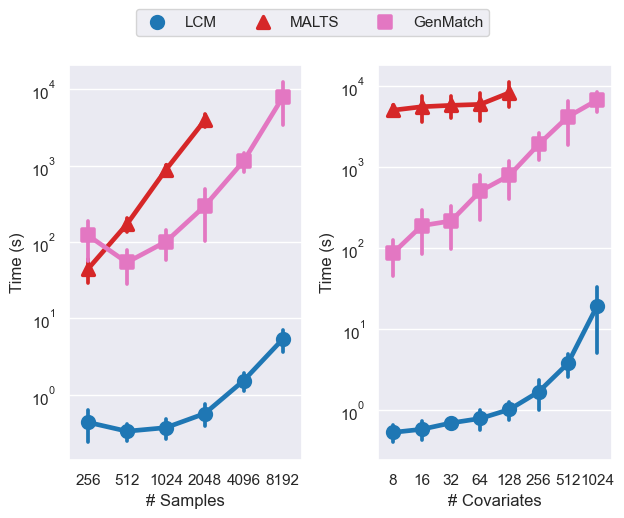
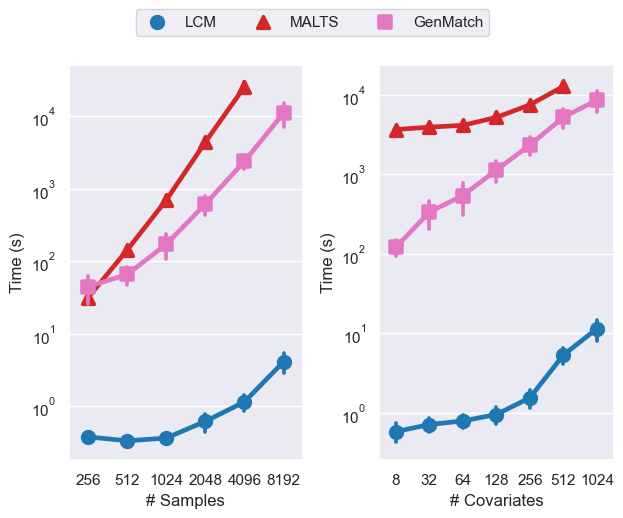
edited plots and changing covariates to look at for schools

diff --git a/Experiments/schools/run.py b/Experiments/schools/run.py
@@ -2,7 +2,6 @@ import pandas as pd
 import seaborn as sns
 import matplotlib.pyplot as plt
 import matplotlib.ticker as ticker
-import matplotlib
 import numpy as np
 import os
 from collections import Counter
@@ -79,11 +78,19 @@ with open(f'{save_folder}/ensemble_prog_ate.txt', 'w') as f:
 df_orig = pd.read_csv(f'{os.getenv("SCHOOLS_FOLDER")}/df.csv')
 lcm_cates = lcm.cate_df.join(df_orig.drop(columns=['Z', 'Y']))
 
-lcm_top_10 = pd.DataFrame(lcm.M_list, columns=lcm.covariates).mean().sort_values(ascending=False).iloc[:10].index
-linear_prog_top_10 = pd.DataFrame(linear_prog_fi, columns=lcm.covariates).mean().sort_values().sort_values(ascending=False).iloc[:10].index
-ensemble_prog_top_10 = pd.DataFrame(ensemble_prog_fi, columns=lcm.covariates).mean().sort_values().sort_values(ascending=False).iloc[:10].index
+lcm_fi_df = pd.DataFrame(lcm.M_list, columns=lcm.covariates)
+lcm_fi_df.to_csv(f'{save_folder}/lcm_fi_df.csv')
+lcm_top_10 = lcm_fi_df.mean().sort_values(ascending=False).iloc[:10].index
+linear_prog_fi_df = pd.DataFrame(linear_prog_fi, columns=lcm.covariates)
+linear_prog_fi_df.to_csv(f'{save_folder}/linear_prog_fi_df.csv')
+linear_prog_top_10 = linear_prog_fi_df.mean().sort_values(ascending=False).iloc[:10].index
+ensemble_prog_fi_df = pd.DataFrame(ensemble_prog_fi, columns=lcm.covariates)
+ensemble_prog_fi_df.to_csv(f'{save_folder}/ensemble_prog_fi_df.csv')
+ensemble_prog_top_10 = ensemble_prog_fi_df.mean().sort_values(ascending=False).iloc[:10].index
 imp_covs = [c for c in lcm_top_10 if c in linear_prog_top_10]
 imp_covs = [c for c in imp_covs if c in ensemble_prog_top_10]
+
+imp_covs = ['S3', 'C1_4', 'C2', 'X1']
 
 categorical = [c for c in imp_covs if '_' in c]
 continuous = [c for c in imp_covs if '_' not in c]
@@ -112,14 +119,14 @@ for cov in imp_covs:
     if cov in continuous:
         lcm_diffs[cov] = copy.copy(np.mean(np.abs(mg_values - values), axis=1))
     else:
-        lcm_diffs[cov] = copy.copy((np.sum((mg_values == values).astype(int), axis=1) / (k_est*2)))
+        lcm_diffs[cov] = copy.copy((np.sum((mg_values != values).astype(int), axis=1) / (k_est*2)))
     mg_values = df_orig[c].to_numpy()[pd.concat(
         [pd.concat([linear_prog_c_mg[i] for i in range(n_splits * n_repeats)]),
          pd.concat([linear_prog_t_mg[i] for i in range(n_splits * n_repeats)])], axis=1).to_numpy()[good_idxs_i]]
     if cov in continuous:
         linear_prog_diffs[cov] = copy.copy(np.mean(np.abs(mg_values - values), axis=1))
     else:
-        linear_prog_diffs[cov] = copy.copy((np.sum((mg_values == values).astype(int), axis=1) / (k_est*2)))
+        linear_prog_diffs[cov] = copy.copy((np.sum((mg_values != values).astype(int), axis=1) / (k_est*2)))
     mg_values = df_orig[c].to_numpy()[pd.concat(
         [pd.concat([ensemble_prog_c_mg[i] for i in range(n_splits * n_repeats)]),
          pd.concat(
@@ -128,10 +135,10 @@ for cov in imp_covs:
     if cov in continuous:
         ensemble_prog_diffs[cov] = copy.copy(np.mean(np.abs(mg_values - values), axis=1))
     else:
-        ensemble_prog_diffs[cov] = copy.copy((np.sum((mg_values == values).astype(int), axis=1) / (k_est*2)))
+        ensemble_prog_diffs[cov] = copy.copy((np.sum((mg_values != values).astype(int), axis=1) / (k_est*2)))
 
 
-method_order = ['LCM', 'Linear\nPrognostic Score', 'Ensemble\nPrognostic Score']
+method_order = ['LCM', 'Linear\nPGM', 'Nonparametric\nPGM']
 palette = {method_order[i]: sns.color_palette()[i] for i in range(len(method_order))}
 
 
@@ -143,7 +150,7 @@ for c in categorical:
                                     ensemble_prog_diffs[c]],
                                    index=method_order).T,
                       var_name='Method',
-                      value_name='% Match')
+                      value_name='% Mismatch')
     this_df['Covariate'] = c.replace('_', '=')
     cat_diff_df.append(this_df.copy())
 for c in continuous:
@@ -161,28 +168,27 @@ cont_diff_df = pd.concat(cont_diff_df)
 cat_diff_df.to_csv(f'{save_folder}/categorical_diff.csv')
 cont_diff_df.to_csv(f'{save_folder}/continuous_diff.csv')
 
-matplotlib.rcParams.update({'font.size': 40})
+cat_diff_df['% Mismatch'] *= 100
+
 sns.set_context("paper")
 sns.set_style("darkgrid")
-sns.set(font_scale=4)
-fig, axes = plt.subplots(1, 2, figsize=(26, 14))
+sns.set(font_scale=3.3)
+fig, axes = plt.subplots(1, 2, figsize=(18, 9))
 sns.barplot(ax=axes[0], data=cat_diff_df, x='Covariate',
-            y='% Match', hue='Method', errorbar=None,
+            y='% Mismatch', hue='Method', errorbar=None,
             hue_order=[c.replace('_', '=') for c in categorical].sort())
 sns.boxplot(ax=axes[1], data=cont_diff_df, x='Covariate',
             y='Mean Absolute Difference', hue='Method', showfliers=False)
 handles, labels = axes[0].get_legend_handles_labels()
-fig.legend(handles, labels, loc='upper center', bbox_to_anchor=(0.5, 1.1),
-           ncol=3, fontsize=40,
+fig.legend(handles, labels, loc="lower center", bbox_to_anchor=(.55, 0.93),
+           ncol=3, fontsize=40, handletextpad=0.4,
            columnspacing=0.5)
 for ax in axes:
     ax.set(xlabel=None)
     ax.get_legend().remove()
 axes[0].yaxis.set_major_formatter(ticker.PercentFormatter())
-# axes[1].set_ylim([0, 40])
 fig.tight_layout()
 fig.savefig(f'{save_folder}/all_mg.png', bbox_inches='tight')
-
 
 imp_covs2 = [c.split('_')[0] for c in imp_covs]
 for cov, v in Counter(imp_covs2).items():
@@ -195,7 +201,6 @@ print(imp_covs)
 
 np.random.seed(0)
 sample = df_orig.copy(deep=True)
-sample = sample[sample['S3'] == 5]
 for c in imp_covs:
     if '_' in c:
         cov, val = c.split('_')
@@ -266,25 +271,20 @@ cate_df = cate_df.rename(columns={'avg.CATE_mean': 'LCM',
                                   'XC': 'Urbanicity (XC)',
                                   'S3': 'Exp Success (S3)'})
 cate_df = cate_df.join(linear_prog_cates_full['avg.CATE'])
-cate_df = cate_df.rename(columns={'avg.CATE': 'Linear\nPrognostic Score'})
+cate_df = cate_df.rename(columns={'avg.CATE': 'Linear\nPGM'})
 cate_df = cate_df.join(ensemble_prog_cates_full['avg.CATE'])
-cate_df = cate_df.rename(columns={'avg.CATE': 'Ensemble\nPrognostic Score'})
+cate_df = cate_df.rename(columns={'avg.CATE': 'Nonparametric\nPGM'})
 
 cate_df = pd.melt(cate_df, id_vars=['Urbanicity (XC)', 'Exp Success (S3)'],
-                  var_name='Method', value_name='Est CATE')
+                  var_name='Method', value_name='Estimated CATE')
 
-fig = plt.figure()
+
+plt.figure(figsize=(8, 6))
 sns.set_context("paper")
 sns.set_style("darkgrid")
-sns.set(font_scale=1)
-ax = sns.boxplot(data=cate_df, x="Urbanicity (XC)", y="Est CATE", hue='Method', hue_order=method_order, palette=palette, showfliers=False)
-sns.move_legend(ax, "lower center", bbox_to_anchor=(.5, 1), ncol=3, title=None)
+sns.set(font_scale=2)
+ax = sns.boxplot(data=cate_df, x="Urbanicity (XC)", y="Estimated CATE", hue='Method', hue_order=method_order, palette=palette, showfliers=False)
+sns.move_legend(ax, "lower center", bbox_to_anchor=(.47, 1.02), ncol=3,
+                title=None, handletextpad=0.4, columnspacing=0.5, fontsize=20)
+plt.tight_layout()
 ax.get_figure().savefig(f'{save_folder}/cate_by_xc.png')
-
-plt.figure()
-sns.set_context("paper")
-sns.set_style("darkgrid")
-sns.set(font_scale=1)
-ax = sns.boxplot(data=cate_df, x="Exp Success (S3)", y="Est CATE", hue='Method', hue_order=method_order, palette=palette, showfliers=False)
-sns.move_legend(ax, "lower center", bbox_to_anchor=(.5, 1), ncol=3, title=None)
-ax.get_figure().savefig(f'{save_folder}/cate_by_s3.png')

diff --git a/Experiments/metalearner/metalearner.py b/Experiments/metalearner/metalearner.py
@@ -71,7 +71,7 @@ for c in x_cols:
         pd.concat([lcm.get_MGs()[i][1] for i in range(n_splits)]).to_numpy()]
     lcm_t_diffs[c] = copy.copy(np.mean(np.abs(mg_values - values), axis=1))
 
-lcm.CATE(cate_methods=[est_method])
+lcm.CATE(cate_methods=[est_method], diameter_prune=None)
 df_err = pd.concat([df_err, get_errors(lcm.cate_df[['avg.CATE_mean']],
                                        df_true[['TE']], method_name='LCM',
                                        scale=np.abs(df_true['TE']).mean())])
@@ -102,7 +102,7 @@ for c in x_cols:
         pd.concat([lcm.get_MGs()[i][1] for i in range(n_splits)]).to_numpy()]
     lcm_t_metalearner_diffs[c] = copy.copy(np.mean(np.abs(mg_values - values), axis=1))
 
-lcm.CATE(cate_methods=[est_method])
+lcm.CATE(cate_methods=[est_method], diameter_prune=None)
 df_err = pd.concat([df_err, get_errors(lcm.cate_df[['avg.CATE_mean']],
                                        df_true[['TE']], method_name='Metalearner\nLCM',
                                        scale=np.abs(df_true['TE']).mean())])
@@ -122,7 +122,7 @@ df_err.loc[:, 'Relative Error (%)'] = df_err.loc[:, 'Relative Error (%)'] * 100
 plt.figure()
 sns.set_context("paper")
 sns.set_style("darkgrid")
-sns.set(font_scale=1)
+sns.set(font_scale=1.8)
 ax = sns.boxplot(x='Method', y='Relative Error (%)',
                  data=df_err, showfliers=False,
                  order=order, palette=palette)
@@ -138,18 +138,18 @@ x_imp += 1  # to include unimportant covariate in plotting
 df_weights = df_weights[['Method'] + [f'X{i}' for i in range(x_imp)]].melt(id_vars=['Method'])
 df_weights = df_weights.rename(columns={'variable': 'Covariate', 'value': 'Relative Weight (%)'})
 df_weights['Relative Weight (%)'] *= 100
-plt.figure()
+
+plt.figure(figsize=(6, 8))
 sns.set_context("paper")
 sns.set_style("darkgrid")
-sns.set(font_scale=1)
-ax = sns.catplot(data=df_weights, x="Covariate", y="Relative Weight (%)",
-                 hue="Method", kind="bar", legend=True, hue_order=order,
-                 palette=palette)
-for a in ax.axes.flat:
-    a.yaxis.set_major_formatter(ticker.PercentFormatter())
-sns.move_legend(ax, "lower center", bbox_to_anchor=(.45, 0.95), ncol=3,
-                title=None, frameon=True)
-ax.savefig(f'Results/meralearner_barplot_weights.png')
+sns.set(font_scale=2)
+ax = sns.barplot(data=df_weights, x="Covariate", y="Relative Weight (%)",
+                 hue="Method", hue_order=order, palette=palette)
+ax.yaxis.set_major_formatter(ticker.PercentFormatter())
+sns.move_legend(ax, "lower center", bbox_to_anchor=(.36, 1.02), ncol=3,
+                title=None, handletextpad=0.4, columnspacing=0.5, fontsize=18)
+plt.tight_layout()
+ax.get_figure().savefig(f'Results/metalearner_barplot_weights.png')
 
 lcm_c_diffs = pd.melt(pd.DataFrame.from_dict(lcm_c_diffs), var_name='Covariate', value_name='Mean Absolute Difference')
 lcm_c_diffs['Method'] = 'LCM\nControl MGs'
@@ -172,16 +172,17 @@ palette = {'LCM\nControl MGs': sns.color_palette()[0],
 order = ['LCM\nControl MGs', 'LCM\nTreatment MGs',
          'Metalearner LCM\nControl MGs', 'Metalearner LCM\nTreatment MGs']
 
-fig = plt.figure()
+plt.figure(figsize=(6, 8))
 sns.set_context("paper")
 sns.set_style("darkgrid")
-sns.set(font_scale=1)
+sns.set(font_scale=2)
 ax = sns.boxplot(x='Covariate', y='Mean Absolute Difference', hue='Method',
                  data=mg_diffs, showfliers=False,
                  order=[f'X{i}' for i in range(x_imp)], palette=palette,
                  hue_order=order)
-sns.move_legend(ax, "lower center", bbox_to_anchor=(.5, 1), ncol=4, title=None,
-                handletextpad=0.4, columnspacing=0.5)
+sns.move_legend(ax, "lower center", bbox_to_anchor=(.42, 1), ncol=2, title=None,
+                handletextpad=0.4, columnspacing=0.5, fontsize=18)
+plt.tight_layout()
 ax.get_figure().savefig(f'Results/metalearner_barplot_mg_avg_diff.png')
 
 

diff --git a/Experiments/schools/replot.py b/Experiments/schools/replot.py
@@ -1,0 +1,80 @@
+import os
+import pandas as pd
+import seaborn as sns
+import matplotlib.pyplot as plt
+import matplotlib.ticker as ticker
+import matplotlib
+
+save_folder = 'Results_Tables'
+method_order = ['LCM', 'Linear PGM', 'Nonparametric PGM']
+palette = {method_order[i]: sns.color_palette()[i] for i in range(len(method_order))}
+
+rename_methods = {
+    'LCM': 'LCM',
+    'Linear\nPrognostic Score': 'Linear PGM',
+    'Ensemble\nPrognostic Score': 'Nonparametric PGM'
+}
+
+cat_diff_df = pd.read_csv(f'Results2/categorical_diff.csv', index_col=[0])
+cont_diff_df = pd.read_csv(f'Results2/continuous_diff.csv', index_col=[0])
+cat_diff_df['Method'] = cat_diff_df['Method'].map(rename_methods)
+cont_diff_df['Method'] = cont_diff_df['Method'].map(rename_methods)
+
+categorical = ['XC_1', 'C1_4', 'C1_5', 'C2']
+
+cat_diff_df['% Match'] *= 100
+
+sns.set_context("paper")
+sns.set_style("darkgrid")
+sns.set(font_scale=3.3)
+fig, axes = plt.subplots(1, 2, figsize=(18, 9))
+sns.barplot(ax=axes[0], data=cat_diff_df, x='Covariate',
+            y='% Match', hue='Method', errorbar=None,
+            hue_order=[c.replace('_', '=') for c in categorical].sort())
+sns.boxplot(ax=axes[1], data=cont_diff_df, x='Covariate',
+            y='Mean Absolute Difference', hue='Method', showfliers=False)
+handles, labels = axes[0].get_legend_handles_labels()
+fig.legend(handles, labels, loc="lower center", bbox_to_anchor=(.55, 0.93),
+           ncol=3, fontsize=40, handletextpad=0.4,
+           columnspacing=0.5)
+for ax in axes:
+    ax.set(xlabel=None)
+    ax.get_legend().remove()
+axes[0].yaxis.set_major_formatter(ticker.PercentFormatter())
+fig.tight_layout()
+fig.savefig(f'{save_folder}/all_mg.png', bbox_inches='tight')
+
+
+# df_orig = pd.read_csv(f'{os.getenv("SCHOOLS_FOLDER")}/df.csv')
+# lcm_cates_full = pd.read_csv('Results/lcm_cates.csv', index_col=[0])
+# linear_prog_cates_full = pd.read_csv('Results/linear_prog_cates.csv',
+#                                      index_col=[0])
+# ensemble_prog_cates_full = pd.read_csv('Results/ensemble_prog_cates.csv',
+#                                        index_col=[0])
+
+# lcm_cates_full['avg.CATE_mean'] = lcm_cates_full.mean(axis=1)
+# linear_prog_cates_full['avg.CATE'] = linear_prog_cates_full.mean(axis=1)
+# ensemble_prog_cates_full['avg.CATE'] = ensemble_prog_cates_full.mean(axis=1)
+#
+# cate_df = lcm_cates_full.join(df_orig.drop(columns=['Z', 'Y']))
+# cate_df = cate_df[['avg.CATE_mean', 'XC', 'S3']]
+# cate_df = cate_df.rename(columns={'avg.CATE_mean': 'LCM',
+#                                   'XC': 'Urbanicity (XC)',
+#                                   'S3': 'Exp Success (S3)'})
+# cate_df = cate_df.join(linear_prog_cates_full['avg.CATE'])
+# cate_df = cate_df.rename(columns={'avg.CATE': 'Linear\nPGM'})
+# cate_df = cate_df.join(ensemble_prog_cates_full['avg.CATE'])
+# cate_df = cate_df.rename(columns={'avg.CATE': 'Nonparametric\nPGM'})
+#
+# cate_df = pd.melt(cate_df, id_vars=['Urbanicity (XC)', 'Exp Success (S3)'],
+#                   var_name='Method', value_name='Estimated CATE')
+#
+# plt.figure(figsize=(8, 6))
+# sns.set_context("paper")
+# sns.set_style("darkgrid")
+# sns.set(font_scale=2)
+# ax = sns.boxplot(data=cate_df, x="Urbanicity (XC)", y="Estimated CATE", hue='Method', hue_order=method_order, palette=palette, showfliers=False)
+# sns.move_legend(ax, "lower center", bbox_to_anchor=(.47, 1.02), ncol=3,
+#                 title=None, handletextpad=0.4, columnspacing=0.5, fontsize=20)
+# plt.tight_layout()
+# ax.get_figure().savefig(f'{save_folder}/cate_by_xc.png')

diff --git a/Experiments/tree_model/lcm_vs_tree.py b/Experiments/tree_model/lcm_vs_tree.py
@@ -23,7 +23,7 @@ method_name = 'LCM'
 lcm = LCM(outcome='Y', treatment='T', data=df_train, random_state=random_state)
 print('LASSO R^2 score:')
 print(lcm.fit(return_scores=True))
-cate_df = lcm.CATE(df_estimation=df_est, k=k_est)
+cate_df = lcm.CATE(df_estimation=df_est, k=k_est, diameter_prune=None)
 cate_df = cate_df.rename(columns={'CATE_mean': 'Est_CATE'})
 cate_df['True_CATE'] = df_true['TE'].to_numpy()
 cate_df['Relative Error (%)'] = np.abs((cate_df['Est_CATE']-cate_df['True_CATE'])/np.abs(cate_df['True_CATE']).mean())
@@ -35,7 +35,7 @@ method_name = 'Tree Feature\nImportance Matching'
 tree = LCM(outcome='Y', treatment='T', data=df_train,
            random_state=random_state)
 tree.fit(model='tree', params={'max_depth': 3})
-cate_df2 = tree.CATE(df_estimation=df_est, k=k_est)
+cate_df2 = tree.CATE(df_estimation=df_est, k=k_est, diameter_prune=None)
 cate_df2 = cate_df2.rename(columns={'CATE_mean': 'Est_CATE'})
 cate_df2['True_CATE'] = df_true['TE'].to_numpy()
 cate_df2['Relative Error (%)'] = np.abs((cate_df2['Est_CATE']-cate_df2['True_CATE'])/np.abs(cate_df2['True_CATE']).mean())
@@ -53,7 +53,7 @@ df_err.loc[:, 'Relative Error (%)'] = df_err.loc[:, 'Relative Error (%)'] * 100
 plt.figure()
 sns.set_context("paper")
 sns.set_style("darkgrid")
-sns.set(font_scale=1)
+sns.set(font_scale=1.8)
 ax = sns.boxplot(x='Method', y='Relative Error (%)',
                  data=df_err, showfliers=False,
                  order=order, palette=palette)

diff --git a/Experiments/cate_error/replot_errors.py b/Experiments/cate_error/replot_errors.py
@@ -10,11 +10,10 @@ sine = pd.read_csv('Results/sine_002/df_err.csv')
 order = ['LCM', 'Linear PGM']
 palette = {order[i]: sns.color_palette()[i] for i in range(len(order))}
 
-matplotlib.rcParams.update({'font.size': 40})
 sns.set_context("paper")
 sns.set_style("darkgrid")
-sns.set(font_scale=4)
-fig, axes = plt.subplots(1, 2, figsize=(26, 14))
+sns.set(font_scale=3.3)
+fig, axes = plt.subplots(1, 2, figsize=(15, 9))
 sns.boxplot(ax=axes[0], data=sine,
             x='Method', y='Relative Error (%)',
             showfliers=False,
@@ -26,12 +25,10 @@ sns.boxplot(ax=axes[1], data=exp,
             order=order,
             palette=palette)
 
-# fig.legend(handles, labels, loc='upper center', bbox_to_anchor=(0.5, 1.1),
-#            ncol=3, fontsize=40,
-#            columnspacing=0.5)
-
 axes[0].set_xlabel(xlabel='Sine', labelpad=10, fontdict={'weight': 'bold'})
 axes[1].set_xlabel(xlabel='Exponential', labelpad=10, fontdict={'weight': 'bold'})
 axes[0].yaxis.set_major_formatter(ticker.PercentFormatter())
+axes[1].yaxis.set_major_formatter(ticker.PercentFormatter())
+axes[1].set_ylabel(ylabel=None)
 fig.tight_layout()
 fig.savefig(f'lcm_vs_lin_pgm.png', bbox_inches='tight')

diff --git a/Experiments/scaling/plotting/scaling.py b/Experiments/scaling/plotting/scaling.py
@@ -92,7 +92,7 @@ for f in num_covs_folder:
             print(f'Failed {m} for {this_file}')
     if len(times) > 0:
         times = pd.melt(pd.DataFrame.from_dict(times), var_name='Method', value_name='Time (s)')
-        times['# Covariates'] = int(f.split('/')[-1]) + 8
+        times['# Covariates'] = int(f.split('/')[-1])
         covs_times = pd.concat([covs_times, times.copy()])
 
 # for k in failed_files:

diff --git a/Experiments/scaling/plotting/accuracy.py b/Experiments/scaling/plotting/accuracy.py
@@ -45,6 +45,8 @@ for file in num_covs_folder:
 
 full_errors = pd.concat(full_errors)
 
+full_errors['Relative Error (%)'] *= 100
+
 order = ['LCM', 'Linear PGM', 'Ensemble PGM', 'MALTS', '', '', 'GenMatch']
 palette = {order[i]: sns.color_palette()[i] for i in range(len(order))}
 method_order = [c for c in order if c in full_errors['Method'].unique()]

diff --git a/datagen/dgp_df.py b/datagen/dgp_df.py
@@ -107,6 +107,7 @@ def dgp_schools_df():
     continuous = [c for c in df.columns if c not in categorical + ['T', 'Y']]
     df[continuous] = StandardScaler().fit_transform(df[continuous])
     categorical.remove('C2')
+    categorical.remove('C3')
     df['C2'] = df['C2'].map({1: 0, 2: 1})
     return pd.get_dummies(df, columns=categorical)
 
